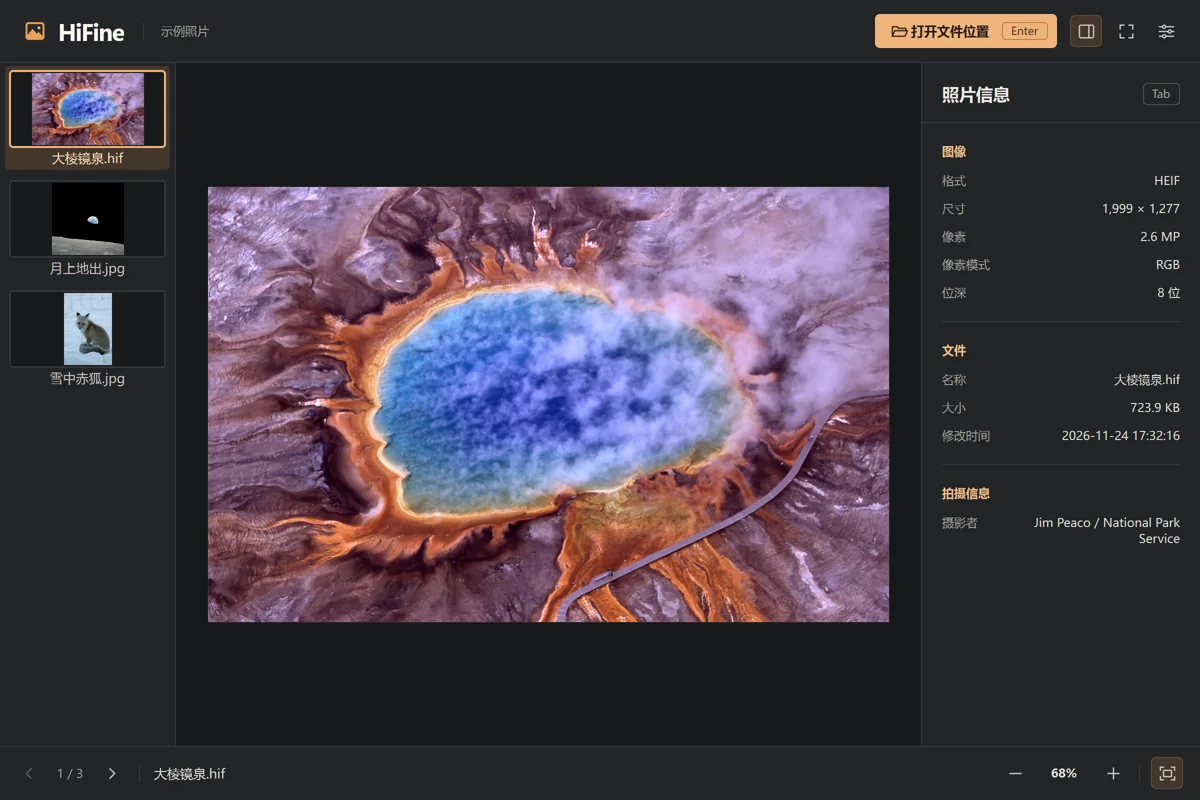
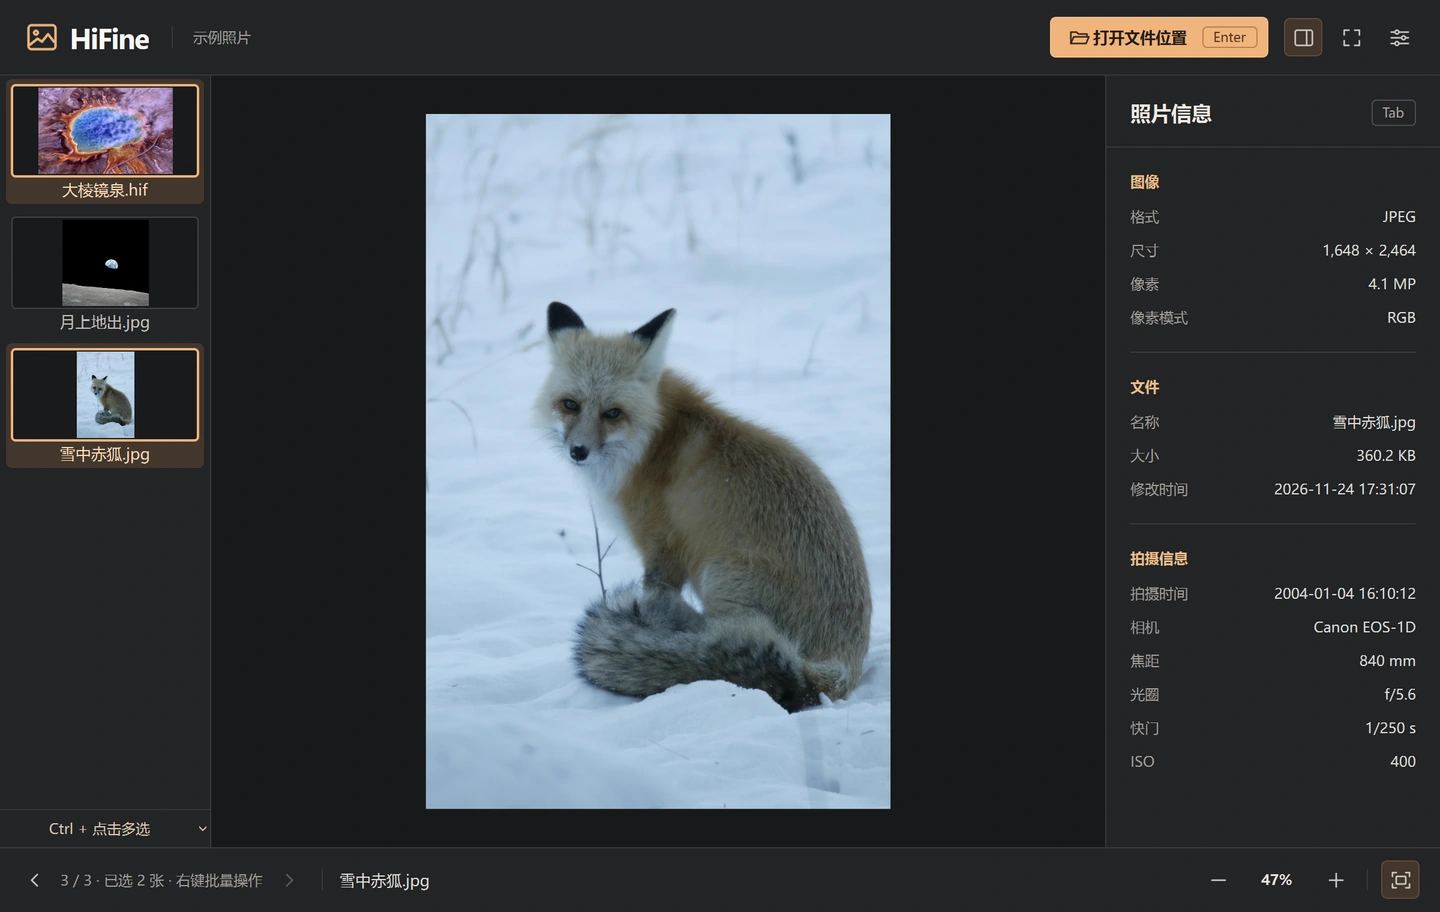
docs: 用新版界面实拍展示多选和照片参数

diff --git a/README.md b/README.md
@@ -8,7 +8,7 @@
 
 **[GitHub 免费下载][latest-release] · [Mirror 酱高速下载][mirror-download] · [MIT 开源](LICENSE)**
 
-![HiFine 正在显示 Jim Peaco 拍摄的《大棱镜泉》，左侧是缩略图，右侧是照片信息](docs/preview.webp)
+![HiFine 正在显示 Jim Peaco 拍摄的《雪中赤狐》。左侧选中了两张照片，右侧可以看到焦距、光圈和快门。](docs/preview.webp)
 
 ## 拿它挑片
 
